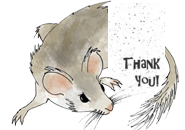
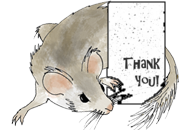
Updated the README file to add links to branching & forking instructions.  Updated the packrat image so the thankyou card is more evident :)

Changed region(s): [[0.5676, 0.0, 0.9189, 0.8308]]

diff --git a/README.md b/README.md
@@ -33,6 +33,8 @@ or from the command line:
 RScript -e "rmarkdown::render(input = 'Workshop_Template_v0.1.Rmd', output_format = 'html_document')"
 ```
 
+If you are interested in working with version control and have a GitHub account, you can either [fork the repository](https://help.github.com/articles/fork-a-repo/) and add a pull request once you are done, or you can clone the repository locally and work on a new branch, creating a pull request when you are done.
+
 ## What's in the ZIP?
 
 The `R_template_v0.2.zip` file is an archived ZIP file that contains several key components:
@@ -87,7 +89,7 @@ If something doesn't work, feel free to contact us through the Neotoma [website]
 
 ## Once you're done
 
-If you have a GitHub account already and have cloned the whole repository, copy your finished workshop documents into a new directory in the `Examples` folder.  Make sure to give it a clear name that indicates the place & time of the workshop, and then make a pull request.
+If you have a GitHub account already and have cloned the whole repository, copy your finished workshop documents into a new directory in the `Examples` folder.  You can create a new directory from the command line, or using your file explorer. Make sure to give it a clear name that indicates the place & time of the workshop, and then [make a pull request](https://help.github.com/articles/creating-a-pull-request/).
 
 If you aren't comfortable doing this, contact us through the issues tracker or via email and send us a zipped copy of the workshop.  We'll put them up for you.  Please note that this repository is licensed under an [MIT License](https://raw.githubusercontent.com/NeotomaDB/Workshops/master/LICENSE).  If you are not comfortable sharing your work under these terms (or cannot legally) please let us know.
 
